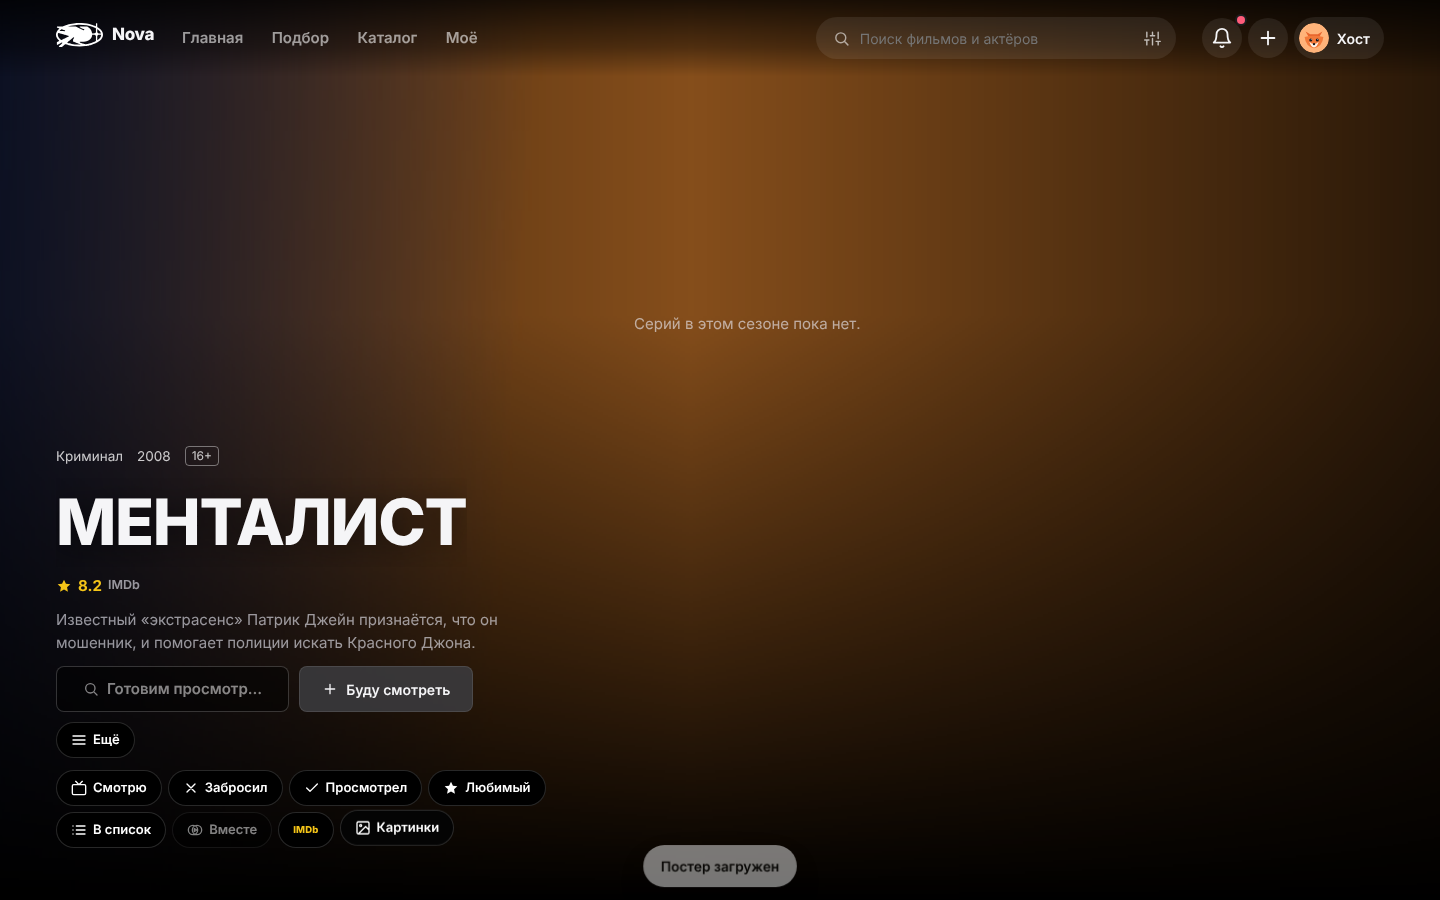
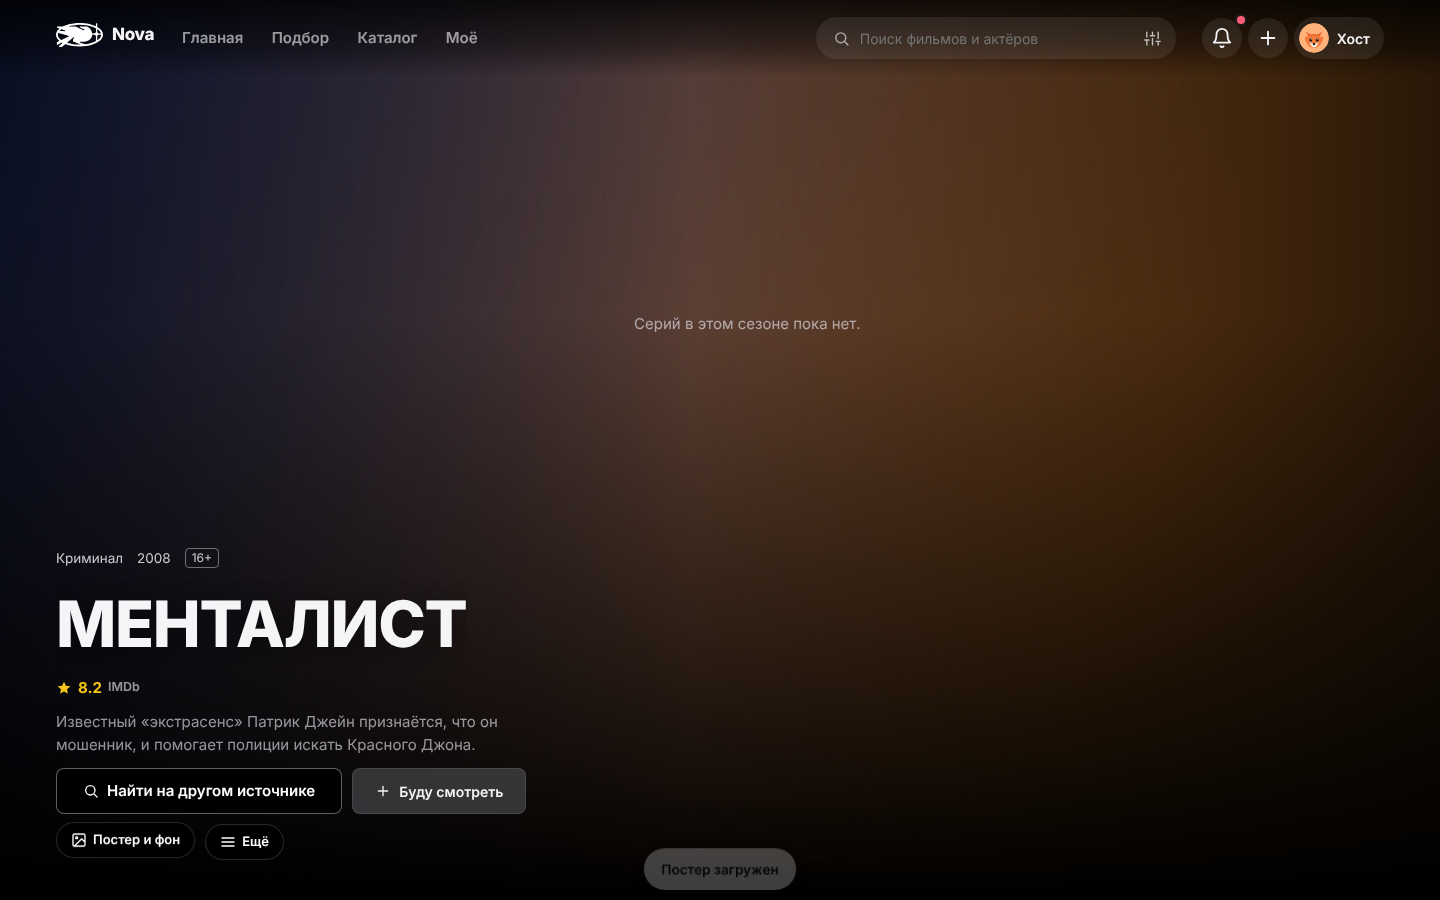
fix: оценка серии - строкой под карточкой, без наложения; «Постер и фон» у сериала - одна кнопка на телефоне; снимки e2e
Claude-Session: https://claude.ai/code/session_01PdbNxM7NLLp2d2uKGuEVkW

Changed region(s): [[0.0312, 0.0311, 0.6562, 0.9644], [0.4375, 0.9333, 0.5625, 0.9956]]

diff --git a/web/src/lib/title/SeriesHero.svelte b/web/src/lib/title/SeriesHero.svelte
@@ -184,14 +184,14 @@
             {:else}
               <!-- Нажали - эта серия выбрана; галочка рядом - «посмотрел» (отдельная кнопка). -->
               <button class="card" aria-current={e.current ? 'true' : undefined} aria-label="{e.episode ?? ''} серия: {localized(e.name, 'Серия')}" onclick={() => onpick?.(e)}>{@render card(e)}</button>
-              {#if onrate && e.episode !== null}
-                <!-- Своя оценка серии - звёздами в углу карточки (отдельно от кнопки серии). -->
-                <div class="rate" class:set={!!e.mine}><StarInput value={e.mine ?? null} size={14} label="Ваша оценка {e.episode} серии" onchange={(v) => onrate?.(e, v)} /></div>
-              {/if}
               {#if onseen}
                 <button class="seen" class:on={e.done} aria-pressed={e.done} aria-label="Посмотрел {e.episode ?? ''} серию" title={e.done ? 'Снять «посмотрел»' : 'Посмотрел (и все раньше)'} onclick={() => onseen?.(e)}>
                   <Icon name="check" size={14} stroke={3} />
                 </button>
+              {/if}
+              {#if onrate && e.episode !== null}
+                <!-- Своя оценка серии - строкой под карточкой (отдельно от кнопки серии). -->
+                <div class="rate" class:set={!!e.mine}><small>Ваша оценка</small><StarInput value={e.mine ?? null} size={14} label="Ваша оценка {e.episode} серии" onchange={(v) => onrate?.(e, v)} /></div>
               {/if}
             {/if}
           </li>
@@ -406,9 +406,9 @@
     animation-delay: calc(min(var(--i, 0), 10) * 35ms);
   }
   /* Галочка «посмотрел» у серии из ленты - в углу кадра, своей кнопкой. */
-  /* Оценка серии - в правом нижнем углу карточки; пустые звёзды тусклые, пока не наведут или не поставят. */
-  .ep { position: relative; }
-  .rate { position: absolute; right: 52px; bottom: 6px; z-index: 2; padding: 2px 6px; border-radius: 999px; background: #000000a6; opacity: 0.55; transition: opacity 0.2s; }
+  /* Оценка серии - тонкой строкой под карточкой (не поверх текста); пустые звёзды тусклые, пока не наведут или не поставят. */
+  .rate { grid-column: 1 / -1; display: flex; align-items: center; gap: 10px; padding: 2px 14px 10px; opacity: 0.6; transition: opacity 0.2s; }
+  .rate small { color: #8c8c96; font-size: 12px; }
   .ep:hover .rate, .rate.set, .rate:focus-within { opacity: 1; }
   .seen {
     align-self: center;

diff --git a/web/src/routes/ext/[id]/+page.svelte b/web/src/routes/ext/[id]/+page.svelte
@@ -935,7 +935,7 @@
 {/if}
 
 <style>
-  .series-more summary{list-style:none;cursor:pointer}.series-more summary::-webkit-details-marker{display:none}.series-more[open]{flex-basis:100%}.series-more .iconbar{padding:12px 0}.series-more{min-width:0}@media(max-width:640px){.series-more{display:none}}
+  .series-more summary{list-style:none;cursor:pointer}.series-more summary::-webkit-details-marker{display:none}.series-more[open]{flex-basis:100%}.series-more .iconbar{padding:12px 0}.series-more{min-width:0}@media(max-width:640px){.series-more,.art-btn{display:none}}
   .retry { display: flex; flex-wrap: wrap; gap: 8px; }
   .cinema-stage { height: clamp(260px,60svh,680px); position: relative; margin: 0 calc(-1 * var(--gutter)) 32px; }
   .cinema-stage img { position:absolute; inset:0; width:100%; max-width:none; height:100%; object-fit:cover; object-position:center 30%; }
